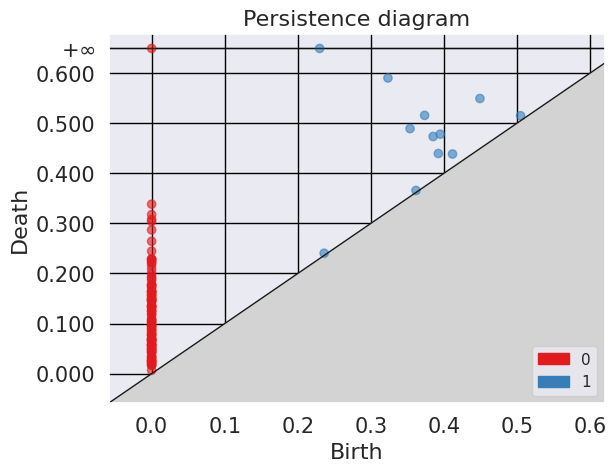
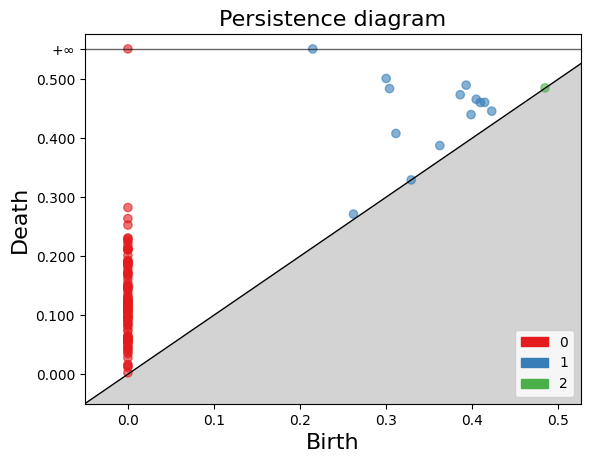
update tda9

diff --git a/_episodes/09-tda-handson.md b/_episodes/09-tda-handson.md
@@ -22,6 +22,7 @@ import gudhi as gd
 import matplotlib.pyplot as plt
 import argparse
 import seaborn as sns
+import requests
 ~~~
 {: .language-python}
 
@@ -277,7 +278,7 @@ plt.show()  # Display the plot
   <img src="../fig/tda_circles.png" alt="Plot Circles" width="50%" height="auto" />
 </a>
 
- The `RipsComplex()` function creates a one-skeleton graph from the point cloud.
+First, we create a Rips complex using the `RipsComplex` class from `gudhi`. The Rips complex is a simplicial complex constructed from the given data points by connecting them with edges if their pairwise distances are below a specified threshold. In this case, we set the `max_edge_length` parameter to 0.6, which determines the maximum length allowed for an edge to be included in the complex.
 
 > ## FIXME
 > A partir de aquí el código no me funciona
@@ -285,33 +286,33 @@ plt.show()  # Display the plot
 
 ~~~
 %%time
-Rips_complex = gd.RipsComplex(circles, max_edge_length=0.6) 
-~~~
+# Create a Rips complex with a maximum edge length of 0.6
+Rips_complex = gd.RipsComplex(circles, max_edge_length=0.6)
 {: .language-python}
+~~~
 ~~~
 CPU times: user 461 µs, sys: 88 µs, total: 549 µs
 Wall time: 557 µs
 ~~~
 {: .output}
 
-The `create_simplex_tree()` method creates the filtered complex.
+Next, we create a simplex tree using the `create_simplex_tree()` method of the `Rips_complex` object. The simplex tree is a data structure that stores the information about the simplices in the complex. We specify `max_dimension=3` to include simplices up to dimension 3 in the complex.
 ~~~
 %%time
-
+#Create a simplex tree from the Rips complex with a maximum dimension of 3
 Rips_simplex_tree = Rips_complex.create_simplex_tree(max_dimension=3) 
 ~~~
 {: .language-python}
-
 ~~~
 CPU times: user 2.25 ms, sys: 0 ns, total: 2.25 ms
 Wall time: 1.95 ms
 ~~~
 {: .output}
 
-The `get_filtration()` method computes the simplices of the filtration
+Then, we retrieve the filtration order of simplices from the `Rips_simplex_tree` using the `get_filtration()` method. Filtration is a sequence of simplices ordered by their inclusion in the complex. We convert the filtration to a list using `list()`.
 ~~~
 %%time
-
+# Get the filtration order of simplices
 filt_Rips = list(Rips_simplex_tree.get_filtration())
 ~~~
 {: .language-python}
@@ -321,10 +322,10 @@ Wall time: 121 ms
 ~~~
 {: .output}
 
-We can compute persistence on the simplex tree structure using the `persistence()` method
+Finally, we compute the persistence of the Rips complex using the `persistence()` method of the `Rips_simplex_tree`. Persistence computes the birth and death values for each topological feature (connected components, loops, voids, etc.) in the complex. The result is assigned to the variable `diag_Rips`.
 ~~~
 %%time
-
+# Compute the persistence of the Rips complex
 diag_Rips = Rips_simplex_tree.persistence()
 ~~~
 {: .language-python}
@@ -334,49 +335,36 @@ Wall time: 8.82 ms
 ~~~
 {: .output}
 
+The `plot_persistence_diagram()` function takes the persistence diagram (`diag_Rips`) as input and creates a scatter plot of the points. The birth and death values are used to determine the positions of the points in the diagram.
 
+Additionally, the `legend`parameter is set to `True`, which displays a legend in the plot. The legend provides information about the colors or markers used to differentiate different topological dimensions or features.
 ~~~
 %%time
-gd.plot_persistence_diagram(diag_Rips,legend=True)
+# Plot the persistence diagram
+gd.plot_persistence_diagram(diag_Rips, legend=True)
 ~~~
 {: .language-python}
 ~~~
-(array([-0.1       ,  0.        ,  0.1       ,  0.2       ,  0.3       ,
-         0.4       ,  0.5       ,  0.62569893]),
- [Text(0, -0.1, '-0.100'),
-  Text(0, 0.0, '0.000'),
-  Text(0, 0.1, '0.100'),
-  Text(0, 0.20000000000000004, '0.200'),
-  Text(0, 0.30000000000000004, '0.300'),
-  Text(0, 0.4, '0.400'),
-  Text(0, 0.5000000000000001, '0.500'),
-  Text(0, 0.6256989291775961, '$+\\infty$')])
+<AxesSubplot:title={'center':'Persistence diagram'}, xlabel='Birth', ylabel='Death'>
 ~~~
 {: .output}
  <a href="../fig/tda_09_persistence_example2.png">
   <img src="../fig/tda_09_persistence_example2.png" alt="Persistence diagram" width="50%" height="auto" />
 </a>
 
+The persistence barcode is another graphical representation of the persistence pairs obtained from the computation of persistent homology. It visualizes the birth and death values of topological features as intervals on a barcode-like plot.
 
+The `plot_persistence_barcode()` function takes the persistence diagram (d`iag_Rips`) as input and creates a barcode plot. Each bar in the plot represents a topological feature, and its length corresponds to the persistence or lifetime of the feature. The x-axis represents the range of values for the birth and death of the features.
+
+The `legend` parameter is set to `True` in order to display a legend in the plot. The legend provides information about the colors or markers used to differentiate different topological dimensions or features.
 
 ~~~
-%%time
 gd.plot_persistence_barcode(diag_Rips,legend=True)
-plt.grid(color = 'black', linestyle = '-', linewidth = 1)
-plt.savefig('persistencebarcodeCircles' , dpi=600, transparent=True)
-plt.xticks(size=15)
-plt.yticks(size=15)
+
 ~~~
 {: .language-python}
 ~~~
-(array([  0.,  20.,  40.,  60.,  80., 100., 120.]),
- [Text(0, 0.0, '0'),
-  Text(0, 20.0, '20'),
-  Text(0, 40.0, '40'),
-  Text(0, 60.0, '60'),
-  Text(0, 80.0, '80'),
-  Text(0, 100.0, '100'),
-  Text(0, 120.0, '120')])
+<AxesSubplot:title={'center':'Persistence barcode'}>
 ~~~
 {: .output}
  <a href="../fig/tda_09_bardcode_example2.png">
@@ -392,23 +380,32 @@ plt.yticks(size=15)
 > Quitar o traducir los comentarios que están en el código en español
 {: .caution}
 
+We are using the gudhi library to load a 2D point cloud data from a CSV file and visualize it using matplotlib.
+
+First, we import the necessary modules from gudhi to work with datasets and construct the Alpha complex. We import _points from gudhi.datasets.generators to generate points and AlphaComplex to construct the Alpha complex.
 ~~~
 from gudhi.datasets.generators import _points
 from gudhi import AlphaComplex
 ~~~
 {: .language-python}
 
+We use the `requests.get()` function to send a GET request to the specified URL and retrieve the content of the file. The content is stored in the response object, and we extract the text content using `response.text`.
 
+The text content is then loaded into a NumPy array using `np.loadtxt()`. The `content.splitlines()} splits the text content into lines, and `delimiter=' '` specifies that the values in each line are separated by a space.
+
+Finally, we visualize the loaded data by plotting the points using `plt.scatter()`. The `data[:, 0]` and `data[:, 1]` select the first and second columns of the data array, representing the x and y coordinates respectively. The `marker='.'` specifies the marker style as a dot, and `s=1` sets the marker size. The points are then displayed using `plt.show()`.
 ~~~
-import requests
-#load the file spiral_2d.csv
+# Load the file spiral_2d.csv from the specified URL
 url = 'https://raw.githubusercontent.com/paumayell/pangenomics/gh-pages/files/spiral_2d.csv'
-# Obtener el contenido del archivo
+
+# Get the content of the file
 response = requests.get(url)
 content = response.text
-# Cargar los datos en un arreglo de NumPy
+
+# Load the data into a NumPy array
 data = np.loadtxt(content.splitlines(), delimiter=' ')
-# Graficar los puntos
+
+# Plot the points
 plt.scatter(data[:, 0], data[:, 1], marker='.', s=1)
 plt.show()
 ~~~
@@ -417,12 +414,31 @@ plt.show()
   <img src="../fig/tda_09_sperial.png" alt="Plot Spiral" width="50%" height="auto" />
 </a>
 
-Define simplicial complex
+we are using the `AlphaComplex` class from the `gudhi` library to construct an Alpha complex from the loaded 2D point cloud data.
+
+First, we create an instance of the `AlphaComplex` class, `alpha_complex`, by passing the `data` array to the points parameter. This initializes the Alpha complex object and prepares it to construct the complex based on the given points.
+
+Next, we create a simplex tree using the `create_simplex_tree()` method of the `alpha_complex` object. The simplex tree is a data structure that stores the information about the simplices in the Alpha complex. It represents the hierarchy of simplices in the complex, from the lowest-dimensional simplices (vertices) to higher-dimensional simplices (e.g., edges, triangles).
+
+By calling `create_simplex_tree()`, we construct the simplex tree based on the Alpha complex. The simplex tree contains information about the simplices, such as their filtration values and filtration order.
+
+The `simplex_tree` object can be further utilized to analyze and extract topological features and their persistence from the constructed Alpha complex. It provides various methods for computing persistence, extracting persistence diagrams, and performing other topological computations.
+
+Overall, the code segment constructs the Alpha complex from the 2D point cloud data and creates a simplex tree to store the resulting complex's information. This allows for subsequent topological analysis and computations on the constructed complex using the `simplex_tree` object.
+
 ~~~
-alpha_complex = AlphaComplex(points = data)
+# Construct an Alpha complex from the data points
+alpha_complex = AlphaComplex(points=data)
+
+# Create a simplex tree based on the Alpha complex
 simplex_tree = alpha_complex.create_simplex_tree()
 ~~~
 {: .language-python}
+~~~
+CPU times: user 5.04 s, sys: 0 ns, total: 5.04 s
+Wall time: 5.06 s
+~~~
+{: .output}
 
 > ## FIXME
 > Aquí me sale un mensaje de warning grande, pero sí me sale la misma gráfica
@@ -435,6 +451,10 @@ print("diag=", diag)
 
 gd.plot_persistence_diagram(diag)
 ~~~
+~~~
+<AxesSubplot:title={'center':'Persistence diagram'}, xlabel='Birth', ylabel='Death'>
+~~~
+{: .output}
 {: .language-python}
 <a href="../fig/tda_09_persistence_example3.png">
   <img src="../fig/tda_09_persistence_example3.png" alt="Persistence diagram" width="50%" height="auto" />
@@ -445,10 +465,14 @@ gd.plot_persistence_diagram(diag)
 {: .caution}
 ~~~
 gd.plot_persistence_barcode(diag)
-#plt.savefig('persistence_barcodeSpiral.svg' , dpi=1200)
 plt.show()
 ~~~
 {: .language-python}
+~~~
+/opt/tljh/user/envs/TDA2/lib/python3.7/site-packages/gudhi/persistence_graphical_tools.py:83: UserWarning: There are 229062 intervals given as input, whereas max_intervals is set to 20000.
+  % (len(persistence), max_intervals)
+~~~
+{: .output}
  <a href="../fig/tda_09_bardcode_example3.png">
   <img src="../fig/tda_09_bardcode_example3.png" alt="Bard Code" width="50%" height="auto" />
 </a>
